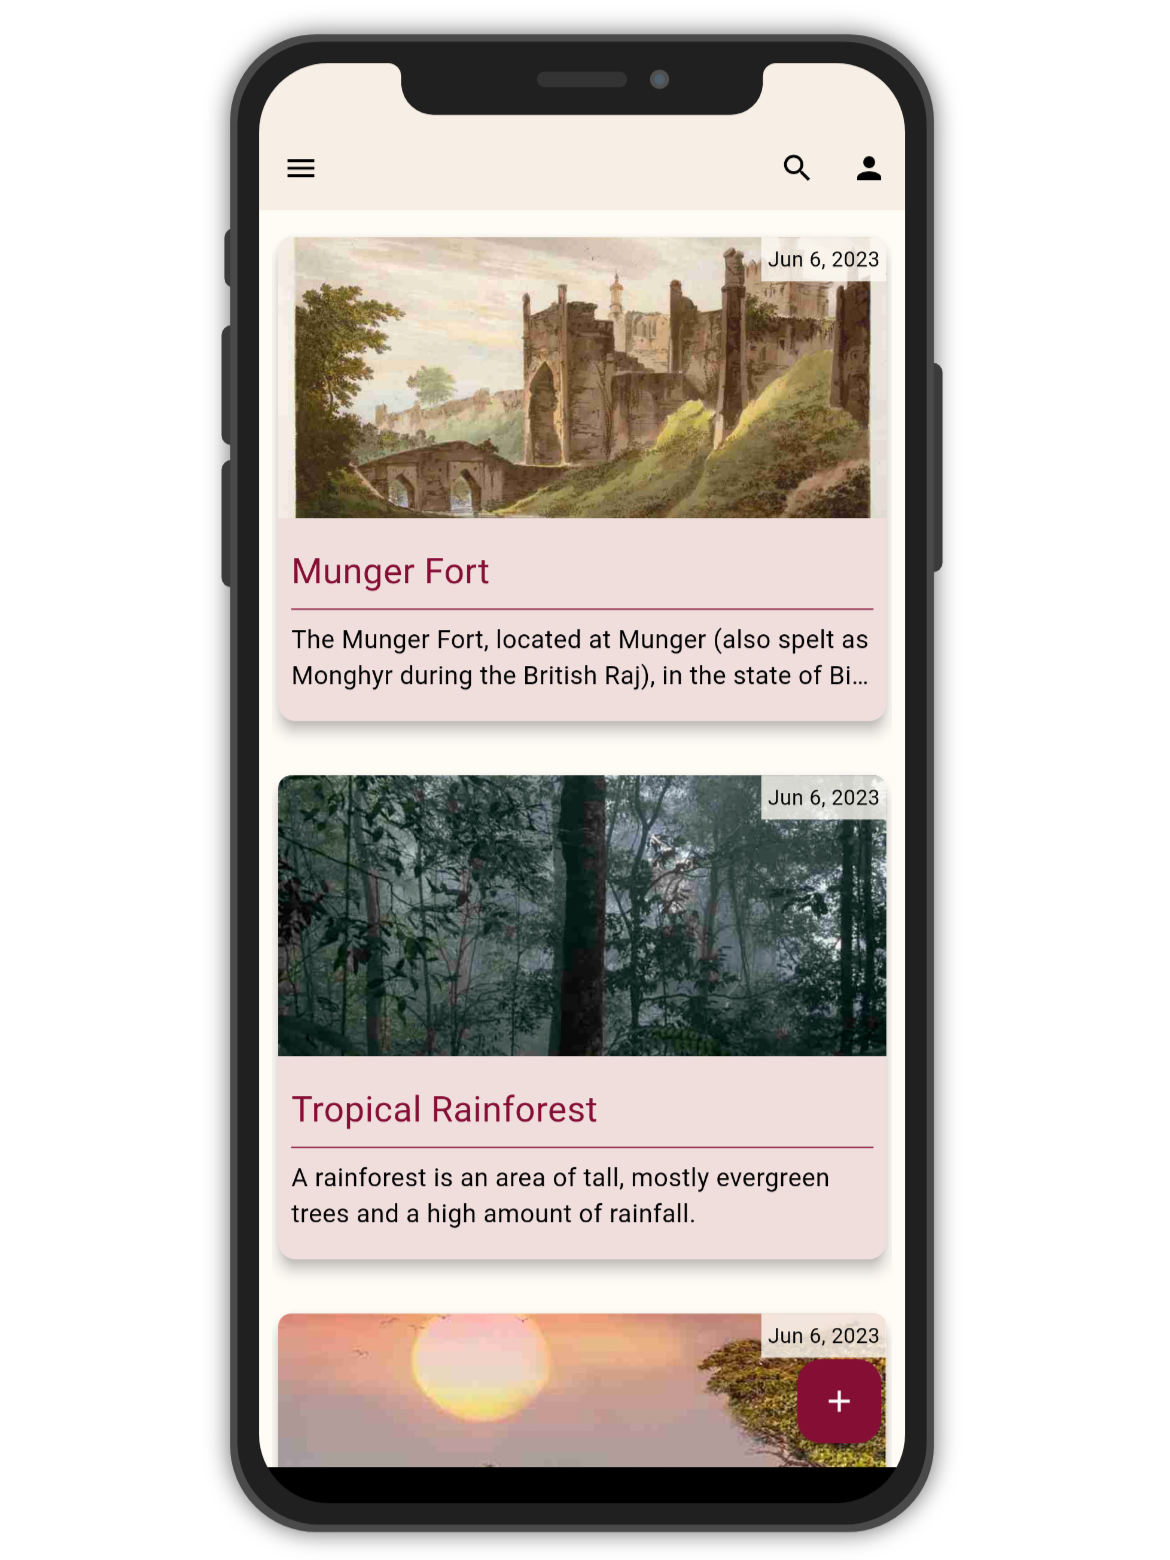
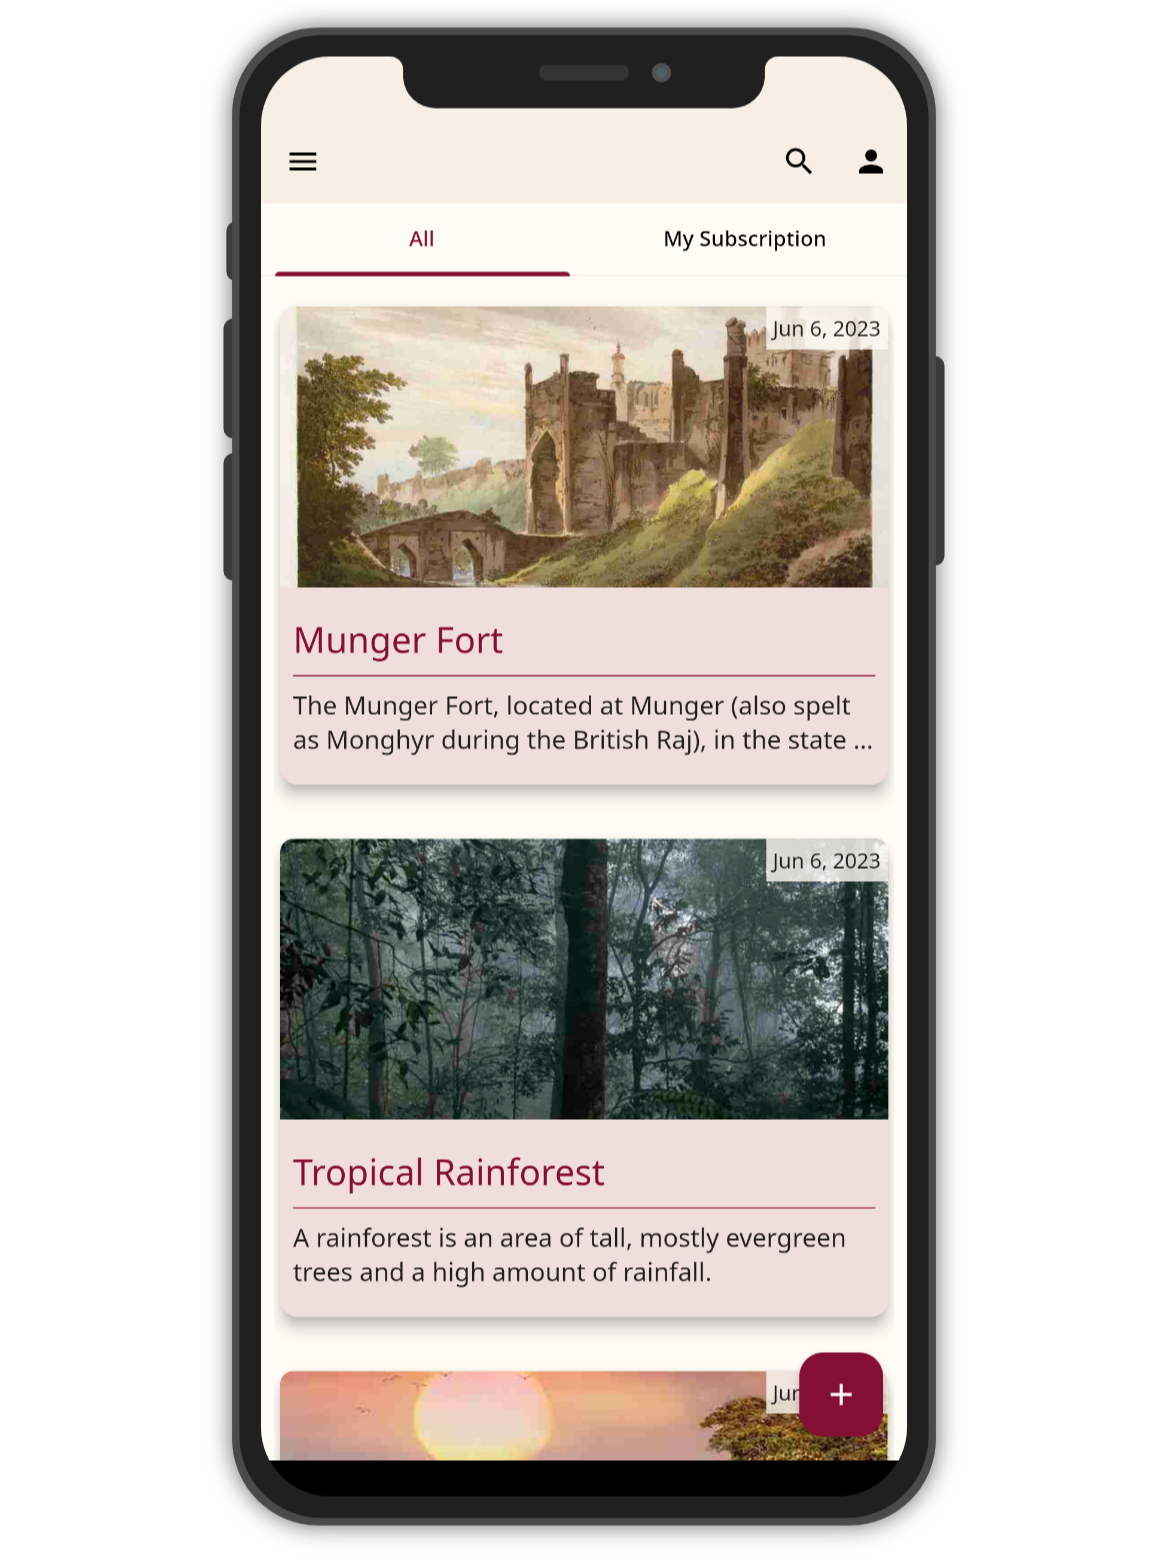
readme update

Changed region(s): [[0.1846, 0.0, 0.8, 0.9846], [0.6769, 0.0923, 0.7077, 0.1231], [0.2462, 0.0923, 0.2769, 0.1231]]

diff --git a/lib/profile/ui/screen/about_screen.dart b/lib/profile/ui/screen/about_screen.dart
@@ -23,7 +23,7 @@ class AboutScreenState extends State<AboutScreen> {
       body: Padding(
         padding: EdgeInsets.symmetric(horizontal: 4.w, vertical: 4.h),
         child: Text(
-          '''Welcome $userName!,
+          '''Welcome $userName,
 
 It a simple blog application where you can express your thoughts, share your experiences, and connect with others.
       

diff --git a/README.md b/README.md
@@ -1,32 +1,45 @@
 # Simple Blogging App
+
 The Simple Blogging App is a mobile application that allows users to read, write, edit, and delete their own blog posts. The app is built using the Flutter framework, a popular open-source mobile app development SDK that enables developers to build high-performance, cross-platform apps for iOS and Android.
-
-
 
 > **Note:** This project uses Node.js API, A Firebase version of this project can be found on [**firebase-main**](https://github.com/shivanuj13/simple_blogger/tree/firebase-main) branch.
 
-> [**Node.js Backend Project can be found here**](https://github.com/shivanuj13/simple_blogger_backend).
+<br/>
+
+> [**Node.js Backend Project for this application can be found here**](https://github.com/shivanuj13/simple_blogger_backend).
 
 ## Screenshots
+
 <p align="center">
   <img src="./assets/screenshots/sign_in.png" width="200" alt="Login Screen">
     <img src="./assets/screenshots/sign_up.png" width="200" alt="Sign Up Screen">
     <img src="./assets/screenshots/home.png" width="200" alt="Home Screen">
-    <img src="./assets/screenshots/profile.png" width="200" alt="Profile Screen">
+    <img src="./assets/screenshots/subscription.png" width="200" alt="Subscription Post Screen">
     <img src="./assets/screenshots/post_editor.png" width="200" alt="Create Post Screen">
-    <img src="./assets/screenshots/post.png" width="200" alt="Edit Post Screen">
-    <img src="./assets/screenshots/search.png" width="200" alt="Edit Post Screen">
+    <img src="./assets/screenshots/post.png" width="200" alt="Post Screen">
+    <img src="./assets/screenshots/search.png" width="200" alt="Search Screen">
+    <img src="./assets/screenshots/profile.png" width="200" alt="Profile Screen">
+   <img src="./assets/screenshots/author_profile.png" width="200" alt="Author Profile Screen">
 </p>
 
-
 ## Technical Details
+
 The Simple Blogging App uses the following technologies:
+
 - [Flutter](https://flutter.dev/) - an open-source UI software development kit created by Google. It is used to develop applications for Android, iOS, Linux, Mac, Windows, Google Fuchsia, and the web from a single codebase.
 - [Node.js](https://nodejs.org/en/) - an open-source, cross-platform, back-end JavaScript runtime environment that runs on the V8 engine and executes JavaScript code outside a web browser.
 - [Shared Preferences](https://pub.dev/packages/shared_preferences) - a Flutter plugin for reading and writing simple key-value pairs. Perfect for storing simple data like user preferences.
 
 ## Features
+
 - User authentication
+- User can create, edit, and delete their own blog posts
+- User can subscribe to other users
+- User can search for other users
+- User can view other users' profiles
+- User can view other users' posts
+- User can view their own profile
+- User can view their own posts
 - User profile management with Mongo DB
 - Blog post management with Mongo DB
 - Blog post image upload with [Cloudinary](https://cloudinary.com/)
@@ -34,25 +47,32 @@ The Simple Blogging App uses the following technologies:
 - Fluid animations
 
 ## Requirements
+
 - Android 5.0 (Lollipop) and above.
 - Android SDK installed on the development environment. See the [Android SDK installation guide](https://developer.android.com/studio) for more details.
 - Flutter framework installed. See the [Flutter installation guide](https://flutter.dev/docs/get-started/install) for more details.
 
 ## Getting Started
+
 - Clone the repository and open the project in your favorite IDE.
 - Set up a Firebase project and enable Authentication, Cloud Firestore and Cloud Storage.
-Add the Firebase configuration file to the android/app directory.
+  Add the Firebase configuration file to the android/app directory.
 - Run the following command to install the required packages:
+
 ```bash
 flutter pub get
 ```
+
 - Run the app on an Android device or emulator. by running the following command:
+
 ```bash
 flutter run
 ```
 
 ## Contributing
+
 Contributions are welcome! If you find any bugs or have suggestions for new features, feel free to open an issue or submit a pull request.
 
 ## License
+
 The Simple Blogging App is released under the MIT License. Feel free to use and modify the code for your own projects.
